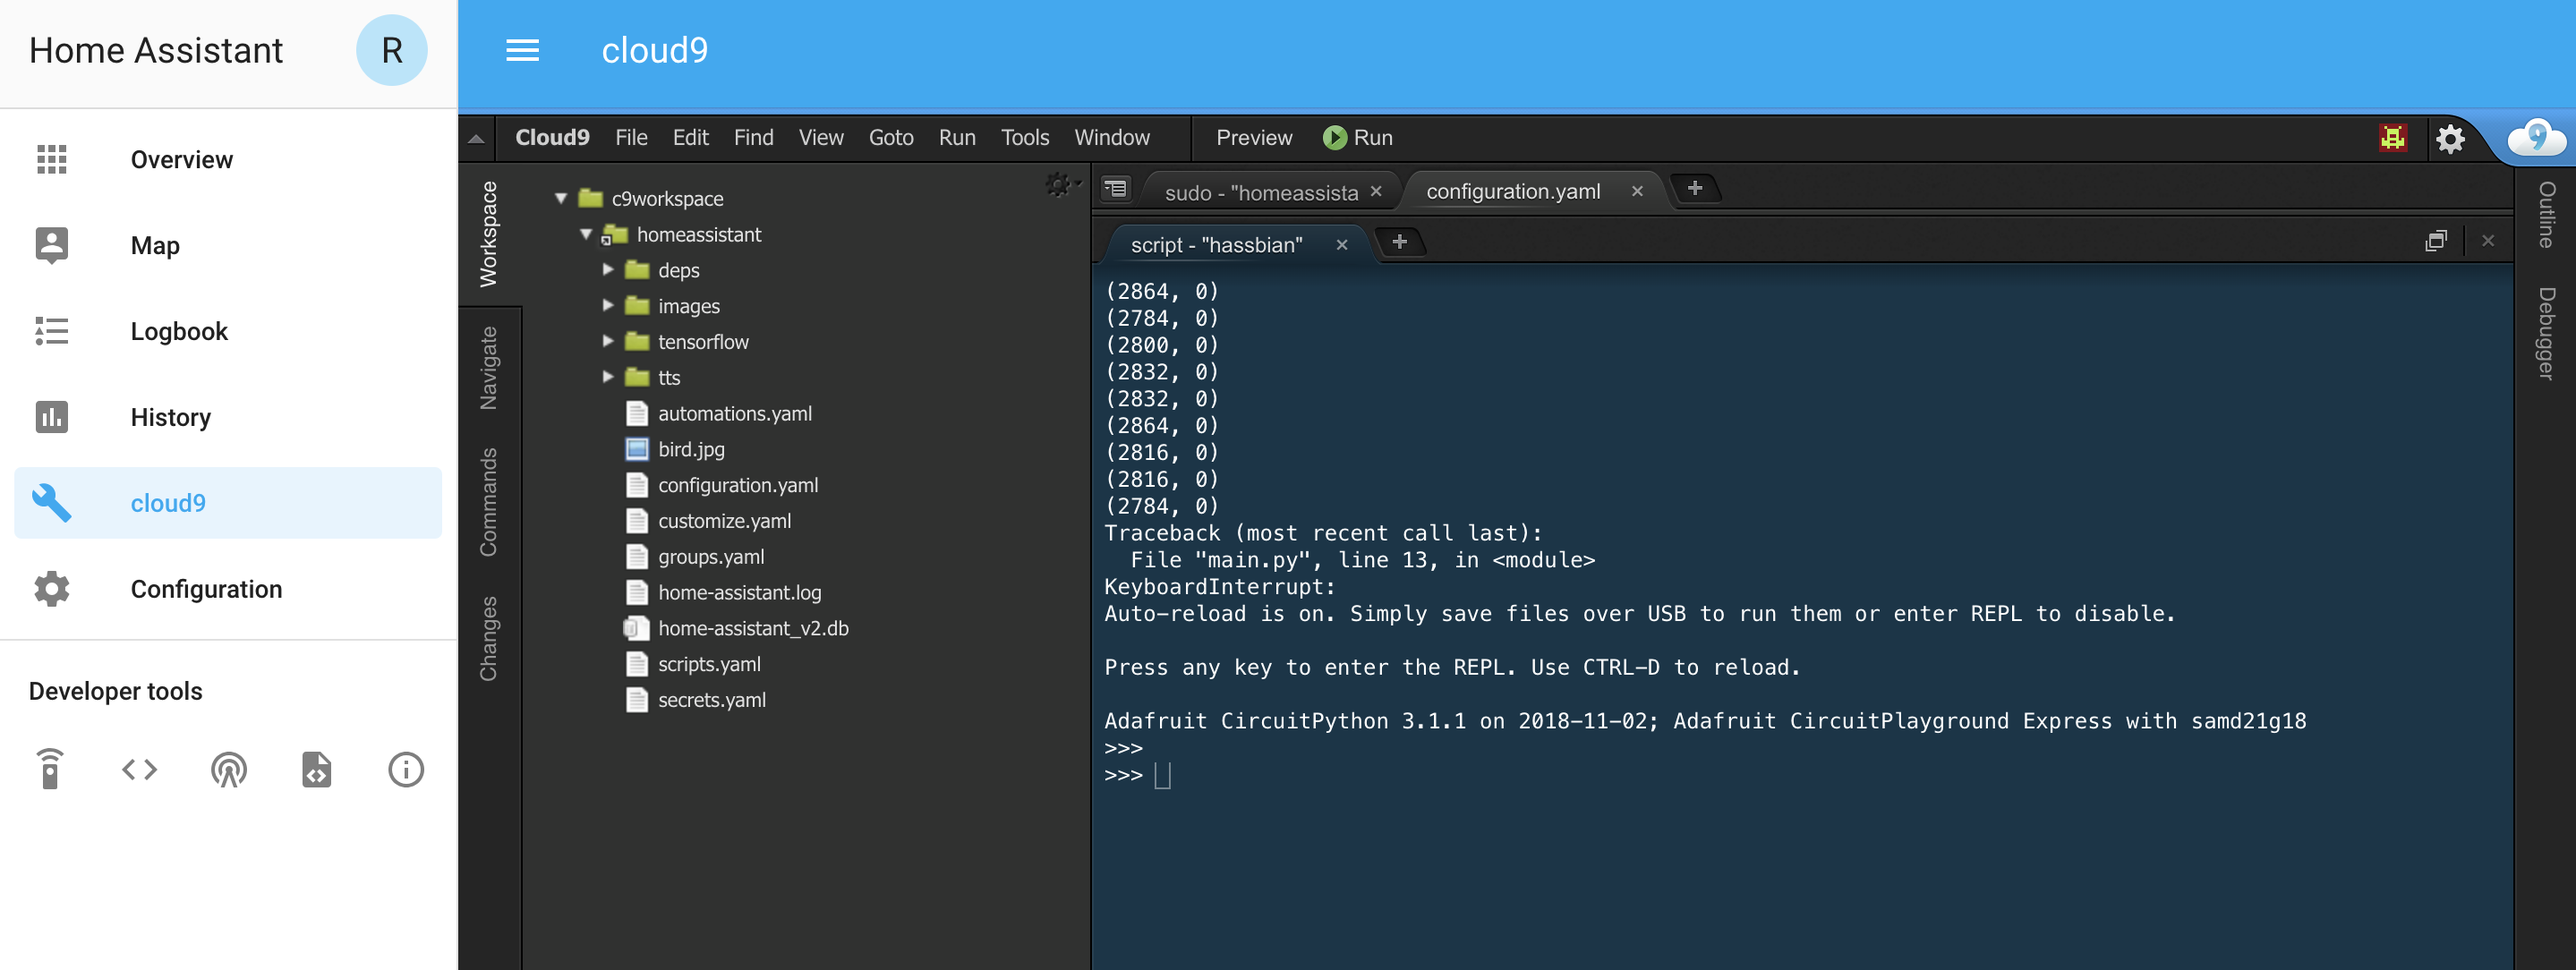
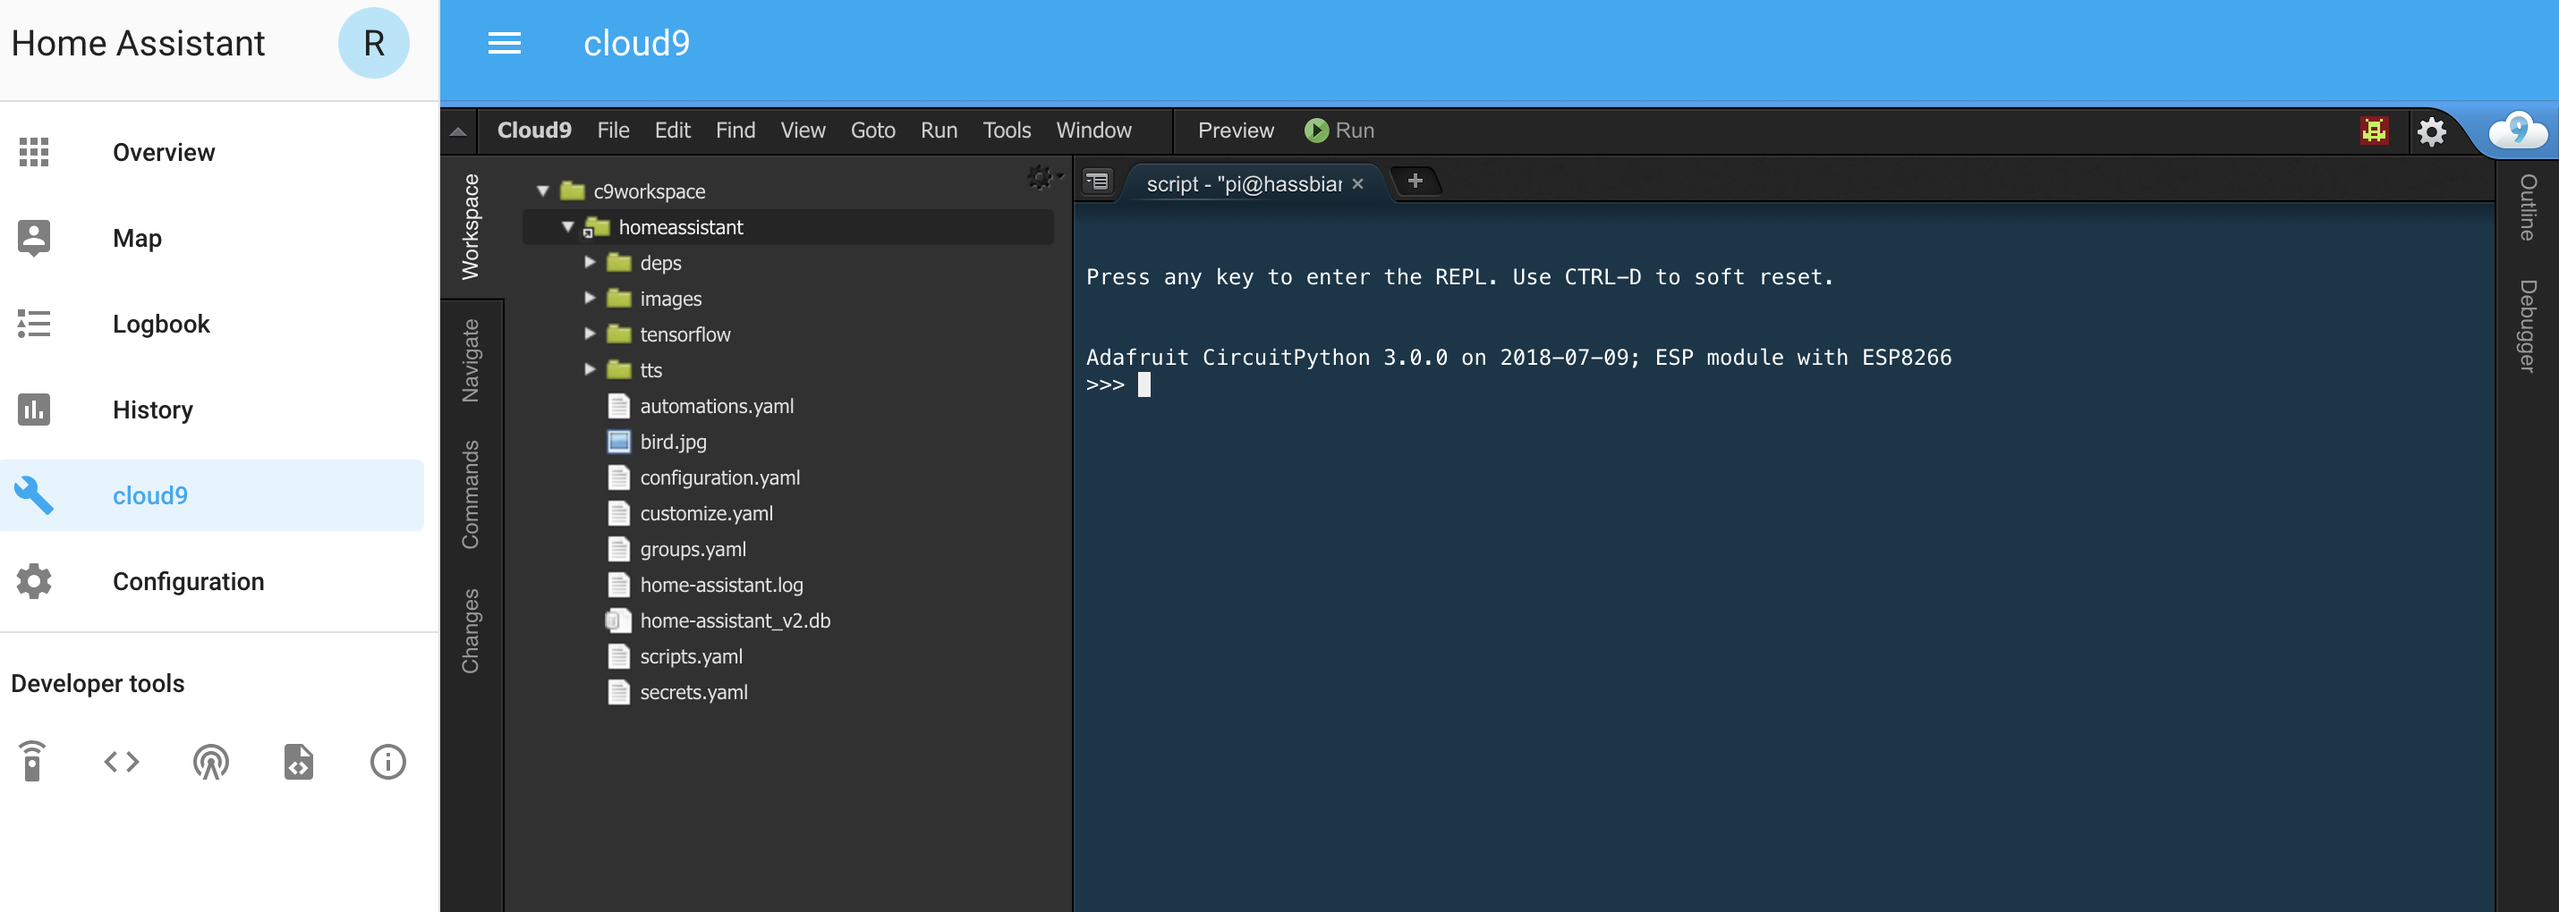
update readme

diff --git a/README.md b/README.md
@@ -12,8 +12,8 @@ I am running [Hassbian](https://www.home-assistant.io/docs/installation/hassbian
 General advice on connecting to a Circuitpython REPL over serial (USB) is [here](https://learn.adafruit.com/welcome-to-circuitpython/advanced-serial-console-on-mac-and-linux). The following advice is specific to connecting to the board via the Cloud9 IDE, and assumes you are logged in as the default `pi` user.
 
 1. `sudo apt-get install screen` -> install [screen](https://www.gnu.org/software/screen/), if you have never done so before.
-2. `ls /dev/ttyACM*` -> list connected boards, I have 1 board connected and this returns `/dev/ttyACM0`
-3. `screen /dev/ttyACM0 115200` -> connect to the board via screen. If you get the error `Cannot open your terminal '/dev/pts/2' - please check.`, run `script /dev/null` and try again.
+2. `ls /dev/tty*` -> list connected devices, and I identified the esp by plugging and unplugging the board and checking what was added to this list. My boards shows up as `/dev/ttyUSB0`
+3. `screen /dev/ttyUSB0 115200` -> connect to the board via screen. If you get the error `Cannot open your terminal '/dev/pts/2' - please check.`, run `script /dev/null` and try again.
 
 <p align="center">
 <img src="https://github.com/robmarkcole/circuitpython-on-home-assistant/blob/master/images/circuitpython_ha.png" width="1000">
@@ -23,7 +23,7 @@ General advice on connecting to a Circuitpython REPL over serial (USB) is [here]
 CircuitPython boards show up as an external disk when plugged in via USB on a regular computer. Unfortunately we cannot browse external filesystems from the Cloud9 addon for Home-Assistant. However Adafruit publish a python package [ampy](https://github.com/adafruit/ampy) which we can use to explore files on the board, and post files to the board.
 
 1. `sudo pip3 install adafruit-ampy` -> to install, if you haven't before. Note sudo is required
-2. `ampy --port /dev/ttyACM0 ls` -> list files, note that screen cannot be running (unplug and replug the board).
+2. `ampy --port /dev/ttyUSB0 ls` -> list files, note that screen cannot be running (unplug and replug the board to close screen and reset the connection).
 3. Create a `main.py` file in Cloud9 and post it.
 
 <p align="center">

diff --git a/board_files/README.md b/board_files/README.md
@@ -1,4 +1,4 @@
-Use ampy to view the boot.py file on the huzzah:
+Use [ampy](https://github.com/adafruit/ampy) to view the boot.py file on the huzzah:
 ```
 Robins-MacBook:board_files robincole$ ampy --port /dev/tty.SLAB_USBtoUART get boot.py
 
